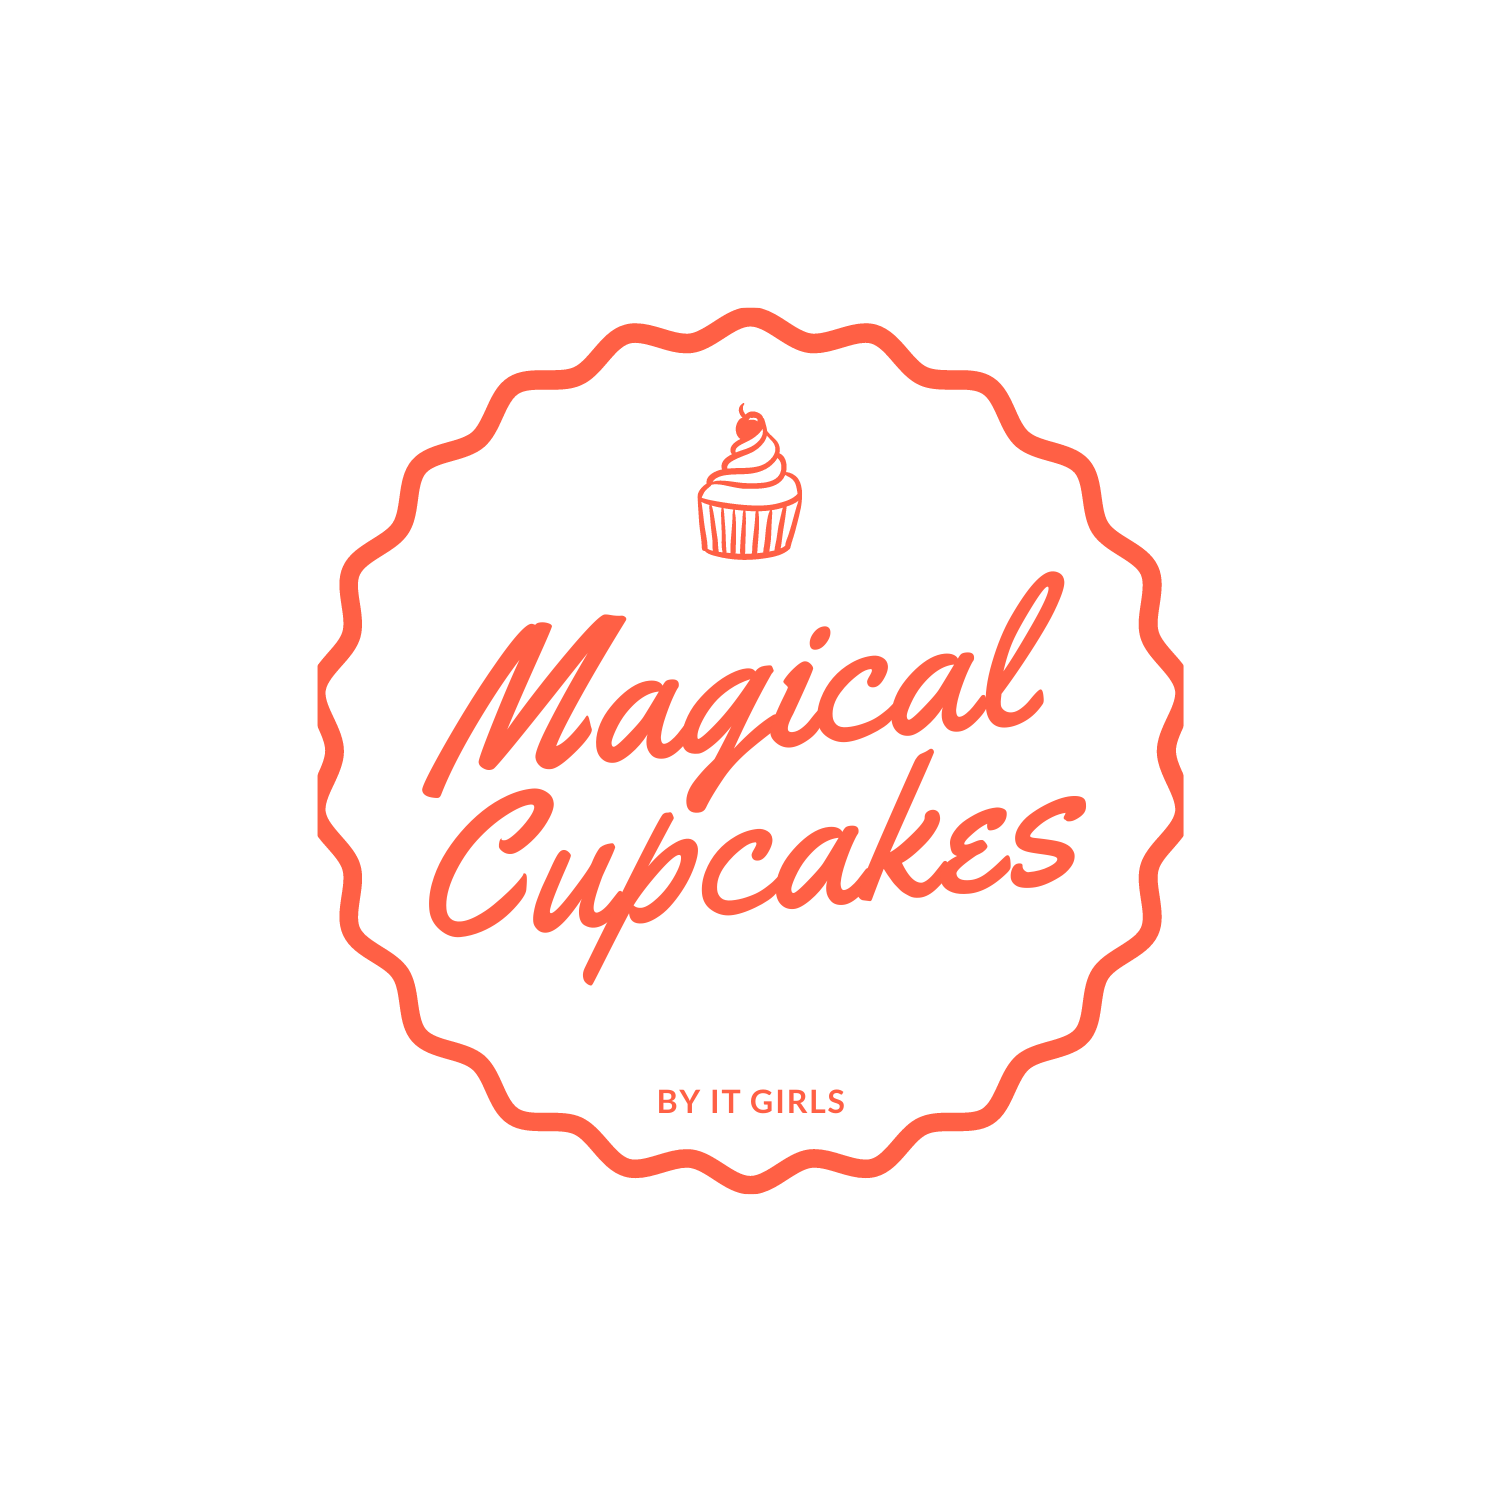
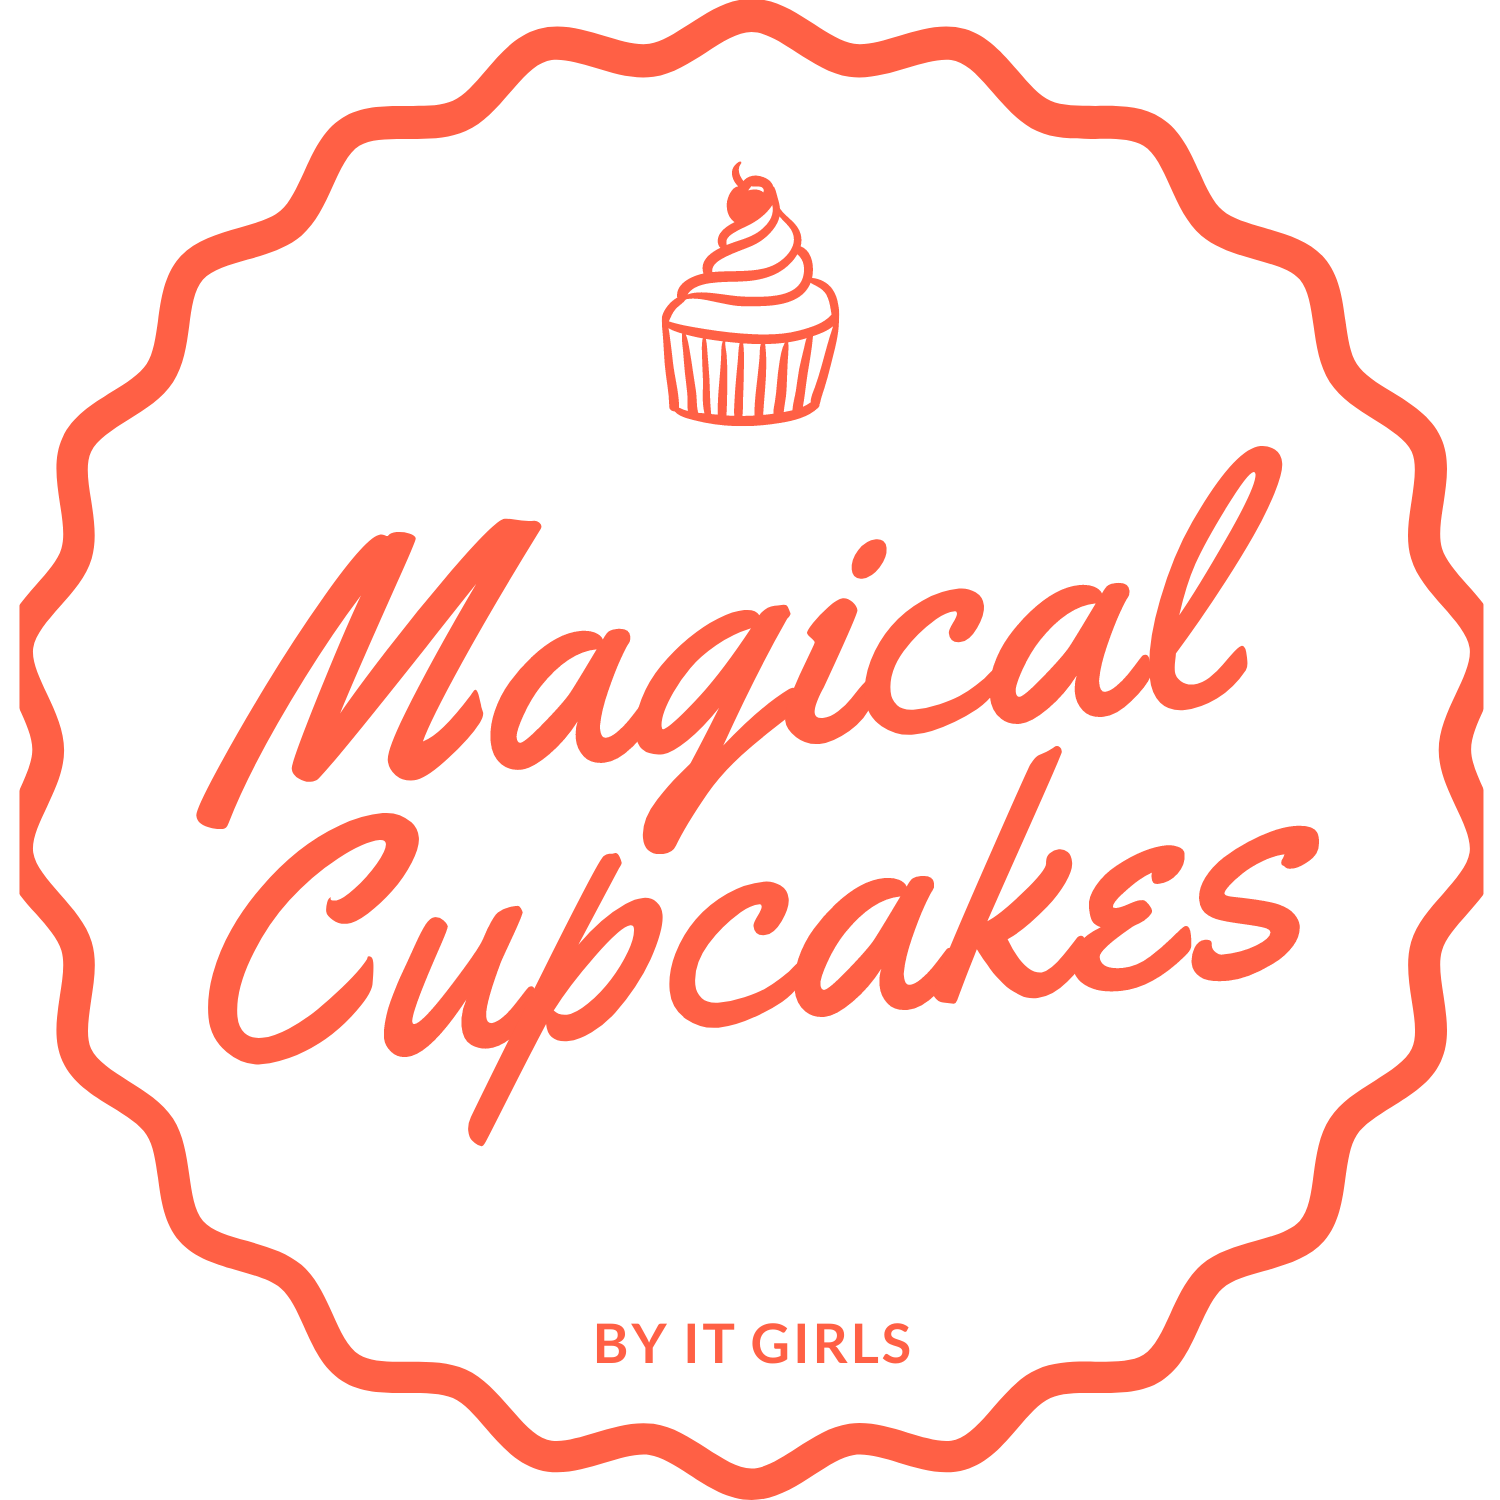
header-changes

Changed region(s): [[0.1227, 0.092, 0.8893, 0.7973], [0.0, 0.0, 1.0, 1.0], [0.3987, 0.8587, 0.6133, 0.92]]

diff --git a/header-footer.html b/header-footer.html
@@ -1,0 +1,50 @@
+<!DOCTYPE html>
+<html lang="en">
+<head>
+    <meta charset="UTF-8">
+    <meta http-equiv="X-UA-Compatible" content="IE=edge">
+    <meta name="viewport" content="width=device-width, initial-scale=1.0">
+    <title>Cupcake 🧁</title>
+
+    <link rel="stylesheet" href="./css/about-us-style.css">
+
+    <link rel="stylesheet" href="https://cdnjs.cloudflare.com/ajax/libs/font-awesome/4.7.0/css/font-awesome.min.css">
+
+    <link href="https://cdn.jsdelivr.net/npm/bootstrap@5.0.1/dist/css/bootstrap.min.css" rel="stylesheet"
+        integrity="sha384-+0n0xVW2eSR5OomGNYDnhzAbDsOXxcvSN1TPprVMTNDbiYZCxYbOOl7+AMvyTG2x" crossorigin="anonymous">
+</head>
+<body class="d-flex flex-column min-vh-100">
+    <header class="d-flex flex-wrap align-items-center justify-content-md-between py-3 mb-4">
+        <div class="row">
+           
+            <a class="navbar-brand header-wallpaper" ><img src="./images/magical-cupcakes.png" class="image-responsive" style="width: 15%"alt="logo cup cakes"></a>
+                        
+                <ul class="nav justify-content-md-center menu">
+                    <li class="nav-item">
+                        <a class="nav-link active menu" aria-current="page" href="" style="color: fuchsia;">About us</a>
+                    </li>
+                                
+                    <li class="nav-item">
+                        <a class="nav-link menu" href="pricing.html" style="color: fuchsia;">Pricing</a>
+                    </li>
+                    <li class="nav-item">
+                        <a class="nav-link menu" href="" style="color: fuchsia;">Registration</a>
+                    </li>
+                    <li class="nav-item">
+                        <a class="nav-link menu" href="login-page.html" style="color: fuchsia;">Log in</a>
+                    </li>
+                </ul>                      
+           
+        </div>
+    </header>
+                            <main>
+                                <br>
+                                </main>
+                                <div class="container">
+                                <br>
+                                <footer>
+                                    <div class="row";>
+                                        <p> StartUp <strong> CupCakes </strong></p>
+                                    </div>
+                                </footer>
+</body>

diff --git a/about-us-page.html b/about-us-page.html
@@ -4,12 +4,37 @@
     <meta charset="UTF-8">
     <meta http-equiv="X-UA-Compatible" content="IE=edge">
     <meta name="viewport" content="width=device-width, initial-scale=1.0">
+    <link rel="stylesheet" href="./css/about-us-style.css">
     <link href="https://cdn.jsdelivr.net/npm/bootstrap@5.1.3/dist/css/bootstrap.min.css" rel="stylesheet" integrity="sha384-1BmE4kWBq78iYhFldvKuhfTAU6auU8tT94WrHftjDbrCEXSU1oBoqyl2QvZ6jIW3" crossorigin="anonymous">
     <title>About Magic Cupcakes</title>
 </head>
 <body>
 
     <div class="container d-flex flex-column min-vh-100">
+
+        <header class="d-flex flex-wrap align-items-center justify-content-md-between py-3 mb-4">
+            <div class="row">
+               
+                <a class="navbar-brand header-wallpaper" ><img src="./images/magical-cupcakes.png" class="image-responsive" style="width: 15%"alt="logo cup cakes"></a>
+                            
+                    <ul class="nav justify-content-md-center menu">
+                        <li class="nav-item">
+                            <a class="nav-link active menu" aria-current="page" href="" style="color: fuchsia;">About us</a>
+                        </li>
+                                    
+                        <li class="nav-item">
+                            <a class="nav-link menu" href="pricing.html" style="color: fuchsia;">Pricing</a>
+                        </li>
+                        <li class="nav-item">
+                            <a class="nav-link menu" href="" style="color: fuchsia;">Registration</a>
+                        </li>
+                        <li class="nav-item">
+                            <a class="nav-link menu" href="login-page.html" style="color: fuchsia;">Log in</a>
+                        </li>
+                    </ul>                      
+               
+            </div>
+        </header>
 
         <div class="row align-items-center justify-content-center">
             <div class="col-6">

diff --git a/css/about-us-style.css b/css/about-us-style.css
@@ -1,0 +1,11 @@
+.header-wallpaper {
+    background-image: url('../images/cupc-back.jpg');
+    background-repeat: no-repeat;
+    
+}
+
+.menu {
+    font-weight: bold;
+    font-size: 30px;
+    text-decoration: fuchsia;
+}
